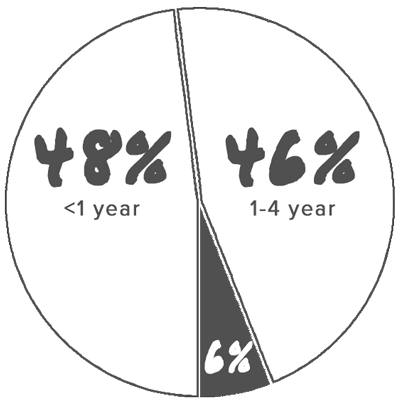
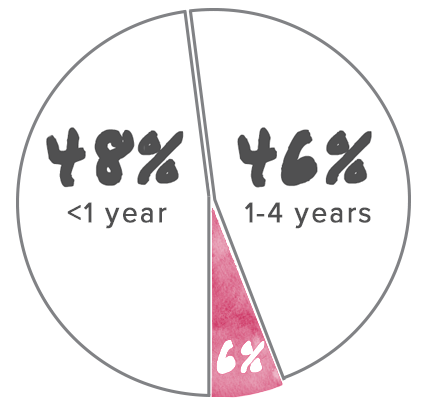
copy and new chart

diff --git a/index.html b/index.html
@@ -111,7 +111,7 @@
                   <p> When you enter foster care, the state determines your case plan, which sets a goal for where you will permanently end up. Most of the time, this goal is to reunify with your parents. Other times, the goal is adoption or other forms of placement.  In the meantime, you will live with adults who serve as foster parents or caretakers. 
  </p>
                   <br>
-                  <em> <strong> Explore Placements</strong> </em>
+                 <strong> Explore Placements</strong> 
                   <br>
                   <img src="arrow.png">
         
@@ -248,7 +248,7 @@
                 <h4 id="Lt" class=""> Relatives  </h4>
 
                 <p id="Ld" class="">  description </p>
-                <strong> <a href="#placement" class="explore"> explore other placements ^ </a> </strong> 
+                <strong> <a href="#placement" class=""> Explore Other Placements ^ </a> </strong> 
                 </div>
         
             </div>
@@ -282,7 +282,7 @@
 
   <!-- Section: How do you exit? Four STATISTICS  --> 
 
-     <div class="row py-3 shh" id="s2">
+     <div class="row py-1 shh" id="s2">
        <div class="col-xs-12 col-md-2">
        </div>
 
@@ -296,21 +296,22 @@
               </div>
 
                <div class="col-xs-12 col-md-8 mx-auto pl-1 my-1 text-xs-center">
-                 <p> The goal of the system is for you to end up in a safe, permanent home as soon as possible. But for various reasons, some kids remain in the system for years. </p>
-                <img src="percent.png" class="text-xs-center">
+                 <p> The goal of the system is for you to end up in a safe, permanent home as soon as possible. But for various reasons, some kids remain in foster care for years.* </p>
+                <img src="percent.png" class="text-xs-center img-fluid">
                 <br>
+                <p> <span style="color:darkpink;">Six percent </span> stay in the foster care for five or more years.  </p>
                 <img src="arrow2.png" class="text-xs-center">
-                 <p> 6% stay in the foster care for more than 5 years </p>
+                 
                
                 <br>
                 <br>
-                <p class="text-xs-center"> You’re about to turn 18 and you’re still in foster care. Now what? Depending on where you live, you might “age out. </p>
+          
               
                 <img src="18cake.png" class="text-xs-center img-fluid">
                 <br>
                 <br>
                 <p class="text-xs-center"> 
-                   Because life can be <a href="http://www.npr.org/templates/story/story.php?storyId=125594259" target="_blank">rough</a> for older foster youth, <a href="http://www.pewtrusts.org/en/research-and-analysis/blogs/stateline/2015/3/25/states-tackle-aging-out-of-foster-care" target="_blank">many states</a> have extended the age cut-off when you lose foster care benefits to 21.
+                   You’re about to turn 18 and you’re still in foster care. Now what? Depending on where you live, you might “age out." Because life can be <a href="http://www.npr.org/templates/story/story.php?storyId=125594259" target="_blank">rough</a> for older foster youth, <a href="http://www.pewtrusts.org/en/research-and-analysis/blogs/stateline/2015/3/25/states-tackle-aging-out-of-foster-care" target="_blank">many states</a> have extended the age cut-off when you lose foster care benefits to 21.
 
 
                 </p>
@@ -533,7 +534,7 @@
               <div class=" mb-3">
                   <div class="row">
                      
-                     <h2 id="r4t" class=" h5bg py-3 text-xs-center "> Additional Resources</h2>
+                     <h2 id="r4t" class=" h5bg py-3 text-xs-center "> Additional Resources & Citations</h2>
                   
   
                   </div>
@@ -548,17 +549,16 @@
                   <ul class="">
                     <li class=""> 
                       <button type="button" class="btn btn-outline-info moreInfo btn-block "> 
-                      <a href="http://www.casey.org/resources/" target="_blank">
-                       Casey Family Programs - Resources
-
+                      <a href="https://www.acf.hhs.gov/cb/research-data-technology/statistics-research/afcars" target="_blank">
+                      Adoption & Foster Care Statistics
                       </a>
                       </button>
         
                     </li>
                     <li class=""> 
                       <button type="button" class="btn btn-outline-info moreInfo btn-block"> 
-                        <a href="https://www.whitehouse.gov/the-press-office/2014/12/08/fact-sheet-improving-outcomes-our-nation-s-foster-youth" target="_blank">
-                        Improving Outcomes for Our Nation’s Foster Youth
+                        <a href="https://www.childwelfare.gov/" target="_blank">
+                        Child Welfare.gov
                         </a>
                       </button>
         
@@ -566,19 +566,23 @@
                     
                     <li class=""> 
                       <button type="button" class="btn btn-outline-info moreInfo btn-block"> 
-                        <a href="https://www.childwelfare.gov/pubs/factsheets/foster/" target="_blank">
-                           Child Welfare - Foster Care Statistics 2014
+                        <a href="http://www.cdss.ca.gov/cdssweb/pg59.htm" target="_blank">
+                           CA: Department of Social Services
+                        </a>
+                      </button>
+        
+                    </li>
+
+                    <li class=""> 
+                      <button type="button" class="btn btn-outline-info moreInfo btn-block"> 
+                        <a href="https://s3.amazonaws.com/media.youthradio.org/wp-content/uploads/2017/01/03103926/afcarsreport23.pdf" target="_blank">
+                           *2015 Adoption and Foster Care Analysis Reporting System data
                         </a>
                       </button>
         
                     </li>
                     
-                    <li class=""> 
-                      <button type="button" class="btn btn-outline-info moreInfo btn-block"> 
-                        <a href="https://www.acf.hhs.gov/cb/research-data-technology/reporting-systems" target="_blank">
-                      Children's Burearu - Reporting Systems</a>
-                      </button>
-                    </li>
+                  
                   </ul>
               </div>
               </div>
